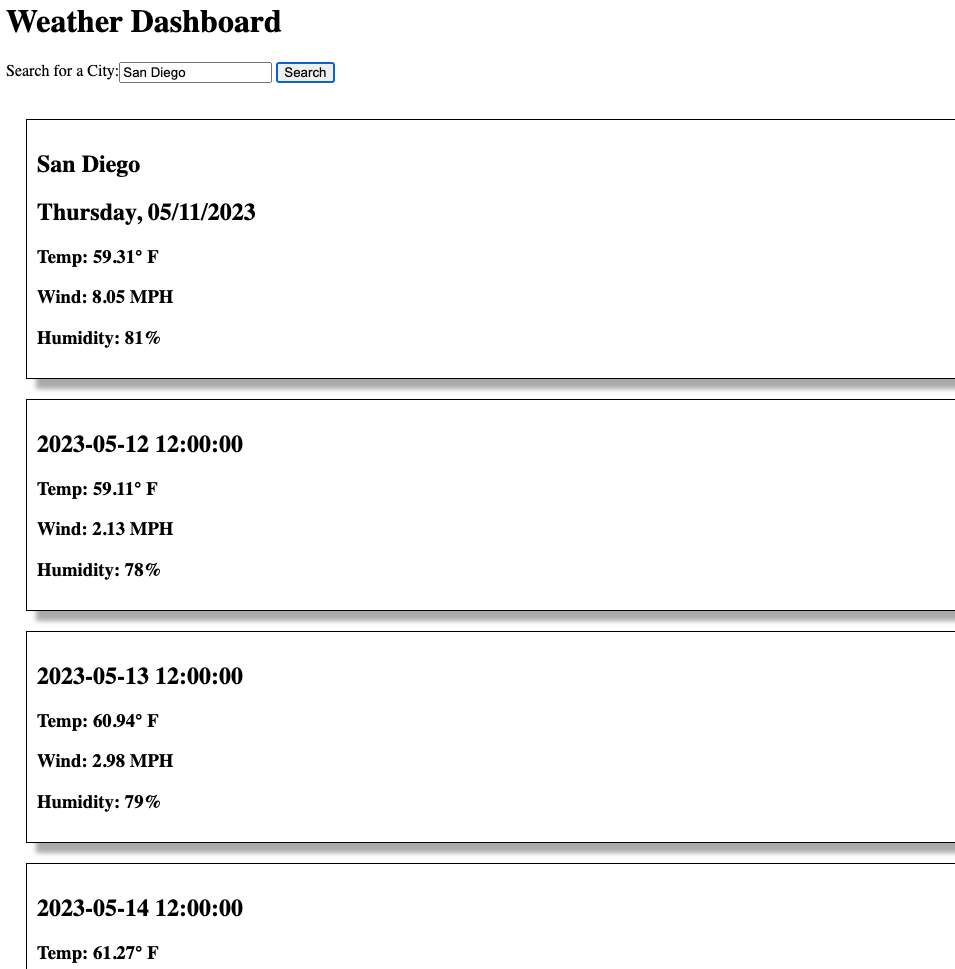
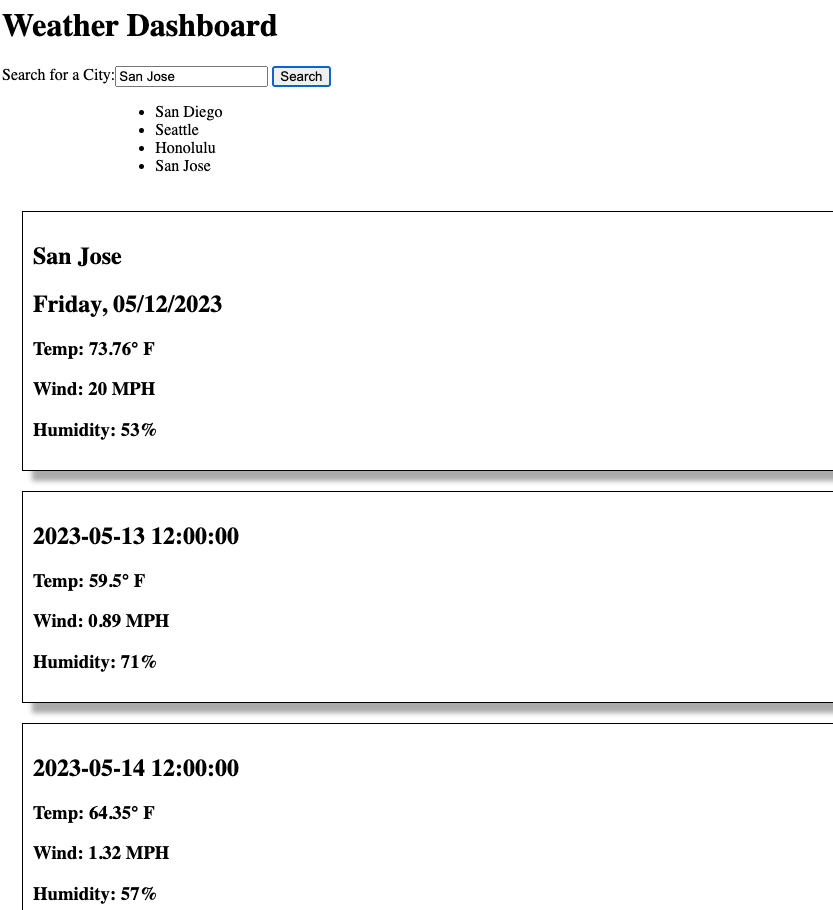
search history rendering to the page, updated README

Changed region(s): [[0.0, 0.0, 1.0, 1.0]]

diff --git a/assets/js/script.js b/assets/js/script.js
@@ -5,24 +5,23 @@ let weatherContainer = document.querySelector('#weather-container');
 let searchButton = document.querySelector('#search-button');
 let searchInput = document.querySelector('#search');
 let currentDay = dayjs().format('dddd, MM/DD/YYYY');
-var cityList = document.querySelector('#city-list');
-var formContainer = document.querySelector('#form-container');
+let cityList = document.querySelector('#city-list');
 let searchHistory = []
 
 function renderSearch() {
-    for (var i = 0; i < searchHistory.length; i++) {
-        var search = searchHistory[i];
-        var li = document.createElement("li");
+    cityList.innerHTML = "";//clearing the HTML before re-rendering the weather data with the new data for the city we just searched.
+    for (let i = 0; i < searchHistory.length; i++) {
+        let search = searchHistory[i];
+        let li = document.createElement("li");
         li.textContent = search;//add the text to that list element
         li.setAttribute("data-index", i);
         cityList.appendChild(li);
-        // localStorage.setItem('city', searchHistory.value)
     }
 }
 // This function is being called below and will run when the page loads.
 function init() {//init is short for initialize
     // Get stored searches as objects from localStorage
-    var storedSearch = JSON.parse(localStorage.getItem("city"));//this gets the stored searches
+    let storedSearch = JSON.parse(localStorage.getItem("city"));//this gets the stored searches
 
     // If searches were retrieved from localStorage, update the searches array to it
     if (storedSearch !== null) {//if its not null,
@@ -49,11 +48,6 @@ function onSearch(event) {
     // fetchCoords is being called, this returns the lat and lon data
     fetchCoords(searchValue);
 }
-//declare global variable of search history as an empty array.  Then push that value to the array and set that search history array to local storage.
-// Update the array, JSON stringify it, and store 
-// on load you have to parse it
-// Start with saving the array
-// create a new element of list item, add the search value as its value, append the list item that will display the search history
 
 // taking the cityName the user inputs and getting the lat and lon
 function fetchCoords(cityName) {
@@ -67,10 +61,6 @@ function fetchCoords(cityName) {
         const lon = data[0].lon;
         // console.log(lat, lon)
         getWeather(lat, lon);
-        // return {
-        //     lat: lat,
-        //     lon: lon,
-        // }
     })
 };
 
@@ -80,7 +70,8 @@ function getWeather(lat, lon) { // defining properties make sure they match lat 
     fetch(requestUrl).then(function (response) {
         return response.json()
     }).then(function (data) {
-        // console.log(data);
+        weatherContainer.innerHTML = "";
+
         const div = document.createElement('div');
         const city = document.createElement('h2');
         const date = document.createElement('h2');
@@ -103,11 +94,6 @@ function getWeather(lat, lon) { // defining properties make sure they match lat 
         weatherContainer.appendChild(div);
 
         getForecast(lat, lon);
-        // return {
-        //     wind: wind,
-        //     temp: temp,
-        //     humidity: humidity
-        // }
     })
 };
 
@@ -117,9 +103,10 @@ function getForecast(lat, lon) {
     fetch(requestUrl).then(function (response) {
         return response.json()
     }).then(function (data) {
-        // console.log(data);//returns an array of 40 objects breaking down the 5 days into 8 3 hour blocks
+        forecastContainer.innerHTML = "";
+        //data returns an array of 40 objects breaking down the 5 days into 8 3 hour blocks
         let fiveDayArr = data.list.filter(forecast => forecast.dt_txt.includes("12:00:00"));
-        // console.log(fiveDayArr);
+
         let futureDate = dayjs(data.dt_txt).format('MM/DD/YYYY');
         fiveDayArr.forEach(data => {//forEach going through the data of the fiveDayArr
             const div = document.createElement('div');

diff --git a/index.html b/index.html
@@ -14,11 +14,11 @@
       crossorigin="anonymous"
     ></script>
 
-    <script
+    <!-- <script
       src="https://code.jquery.com/jquery-3.5.1.min.js"
       integrity="sha256-9/aliU8dGd2tb6OSsuzixeV4y/faTqgFtohetphbbj0="
       crossorigin="anonymous"
-    ></script>
+    ></script> -->
 </head>
 
 <body>

diff --git a/README.md b/README.md
@@ -16,7 +16,7 @@
 
 
 ## General Information
-The user will choose a particular city to find weather information.  Once a city is typed in the search box, the current weather and a 5 day forecast of the weather for that city will be displayed.  For each day, the temperature, wind speed, and humidity will be displayed, as well.
+The user can choose a particular city to find weather information.  Once a city is typed in the search box, the current weather and a 5 day forecast of the weather for that city will be displayed.  For each day, the temperature, wind speed, and humidity will be displayed, as well.  All cities searched will appear in a search history below.
 <!-- You don't have to answer all the questions - just the ones relevant to your project. -->
 
 
@@ -37,7 +37,7 @@ The user will choose a particular city to find weather information.  Once a city
 
 
 ## Usage
-The user will type a city name in the search box.  Once the search button is clicked, it will display current weather and a 5 day forecast.
+The user will type a city name in the search box.  Once the search button is clicked, it will display current weather and a future weather conditions.
 
 
 ## Project Status
@@ -45,15 +45,15 @@ Project is: _in progress_.
 
 
 ## Room for Improvement
-Include areas you believe need improvement / could be improved. Also add TODOs for future development.
-
 Room for improvement:
-- Improvement to be done 1
-- Improvement to be done 2
+- Clickable links for each city in the search history
+- Stlying needs to be improved
+- Dates on 5 day forecast needs to be fixed and get rid of time
 
 To do:
-- Feature to be added 1
-- Feature to be added 2
+- Add links and eventListeners for cities in the search history
+- CSS/Bootstrap styling
+- Dayjs and slice to fix the date and time
 
 
 ## Acknowledgements
